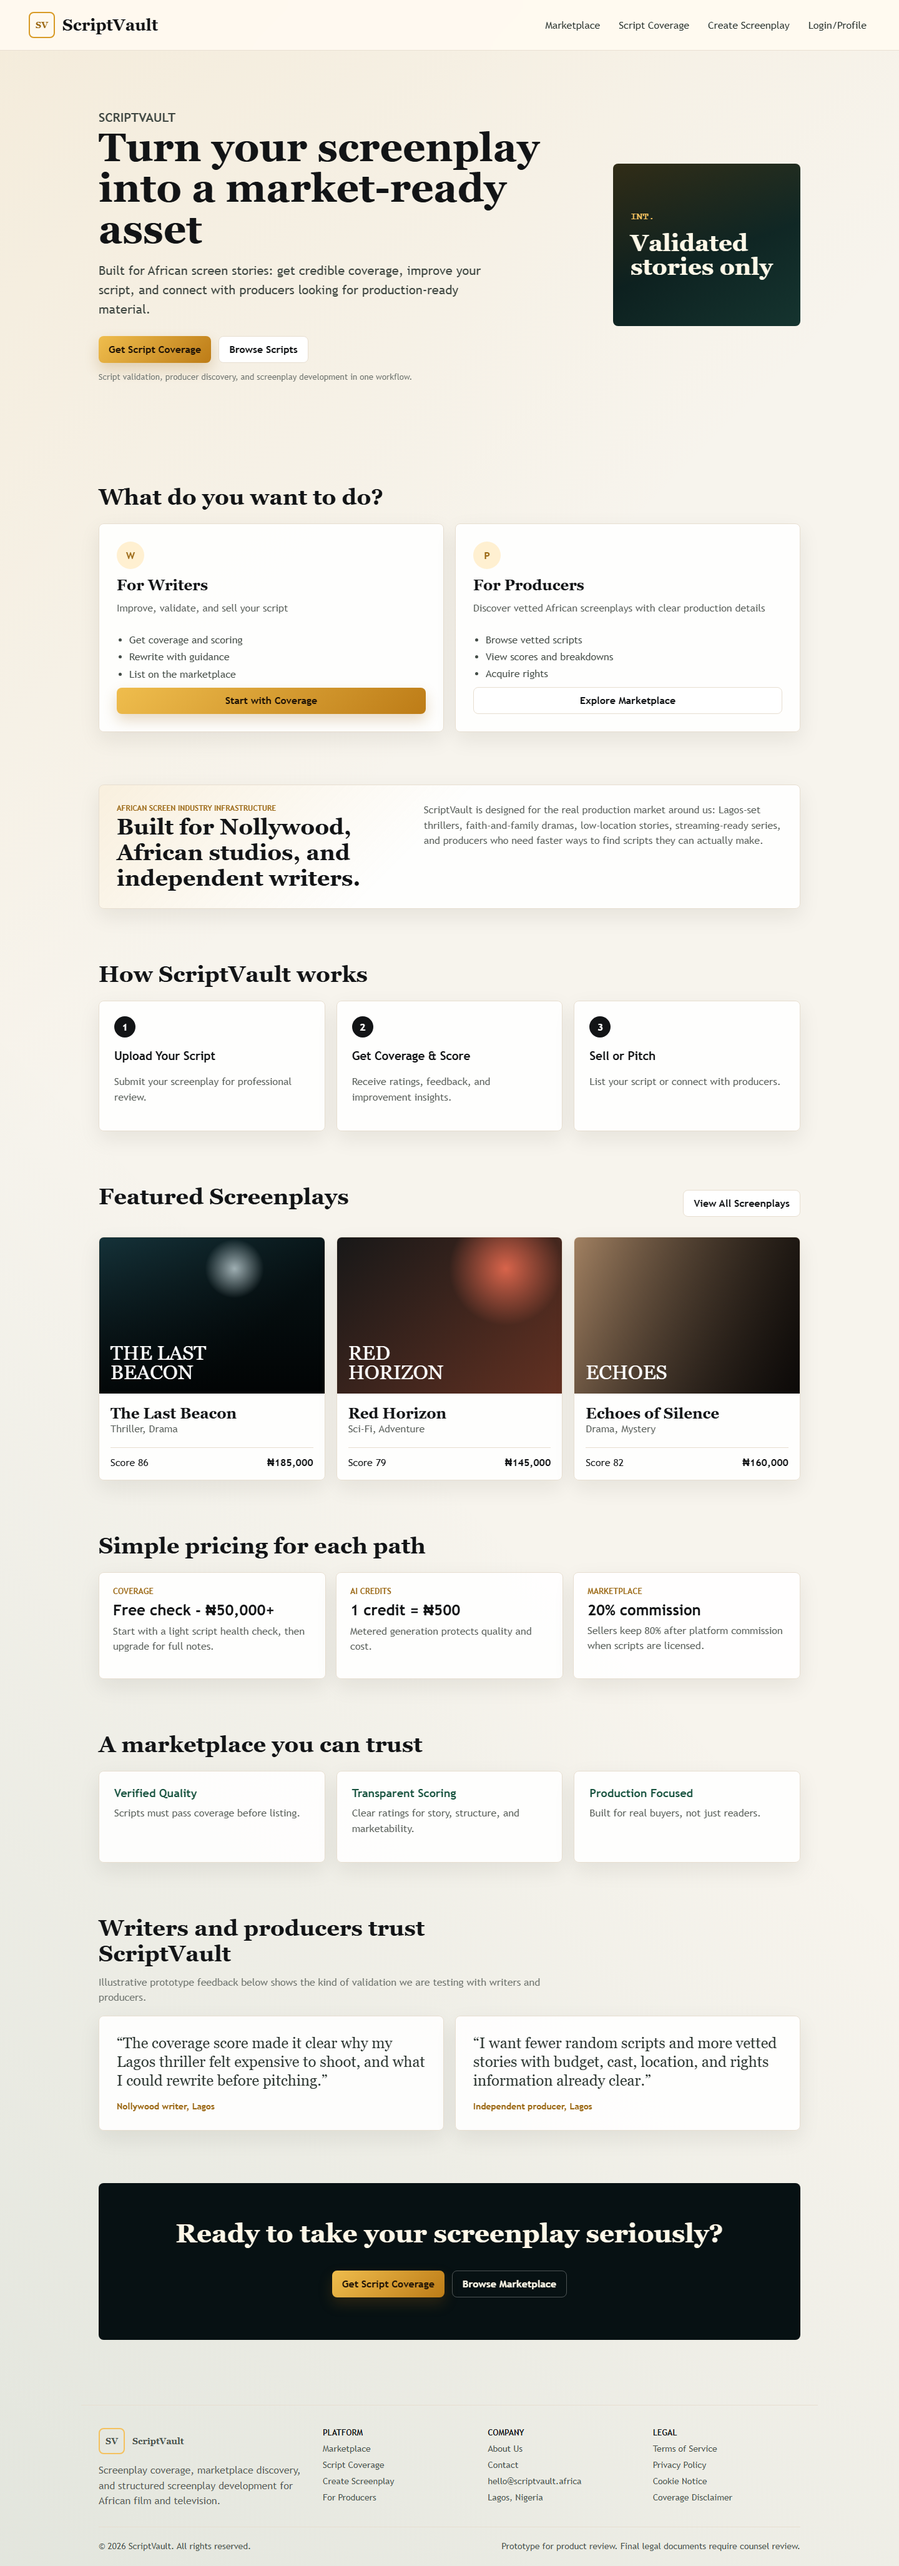
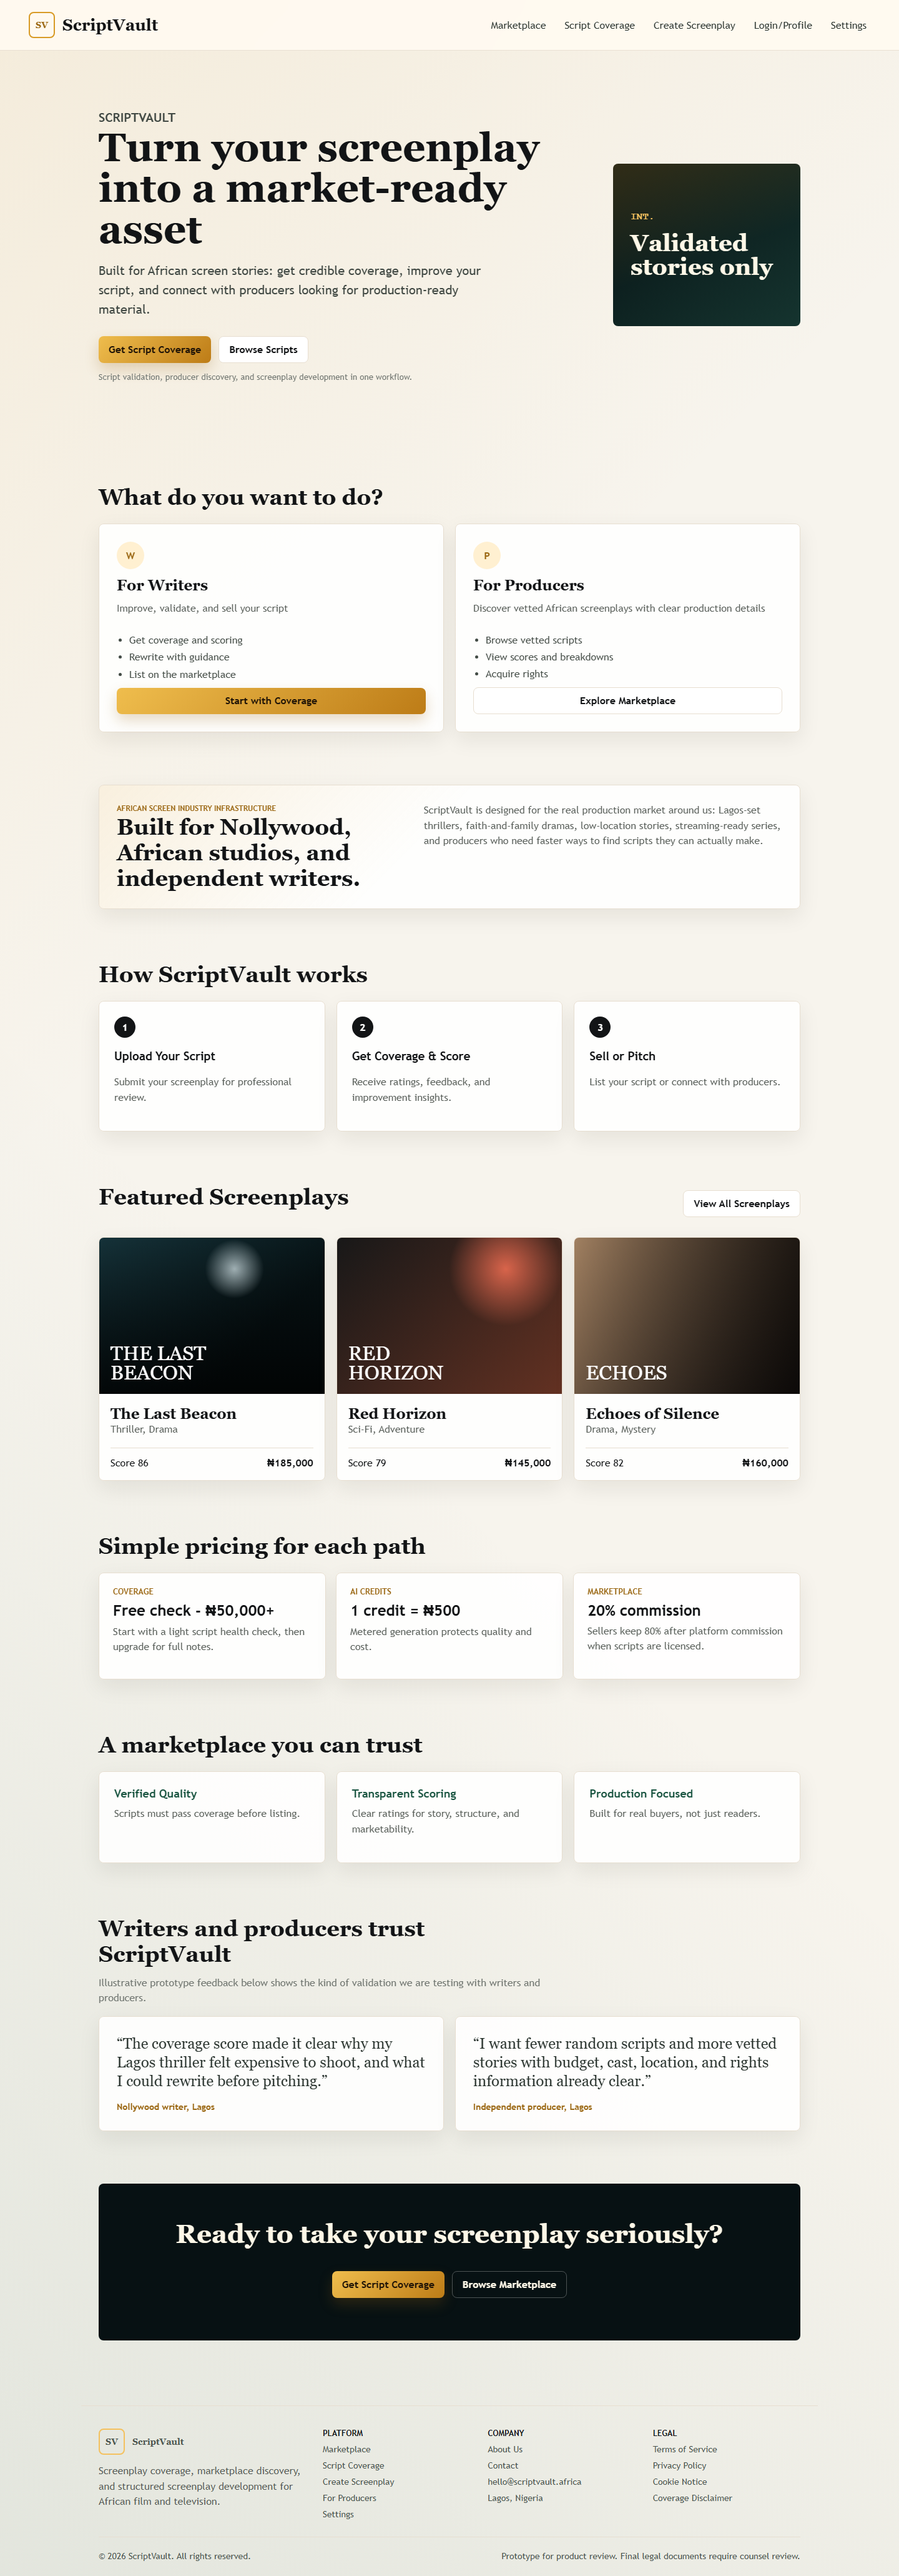
Add prototype API settings

diff --git a/index.html b/index.html
@@ -18,6 +18,7 @@
           <button class="nav-item" data-view="coverage" type="button">Script Coverage</button>
           <button class="nav-item" data-view="generator" type="button">Create Screenplay</button>
           <button class="nav-item" data-view="library" type="button">Login/Profile</button>
+          <button class="nav-item" data-view="settings" type="button">Settings</button>
         </nav>
       </header>
       <main class="main-content">
@@ -1125,6 +1126,42 @@
             </div>
           </section>
         </section>
+
+        <section class="view" id="settings" aria-labelledby="settings-title">
+          <div class="section-heading">
+            <div>
+              <p class="eyebrow">Prototype Settings</p>
+              <h1 id="settings-title">Connect this prototype to a deployed API.</h1>
+              <p>
+                Save API settings in this browser so waitlist and admin review flows can point to staging or
+                production without editing the website code.
+              </p>
+            </div>
+          </div>
+          <form class="panel form-panel settings-panel" id="apiSettingsForm">
+            <label>
+              API Base URL
+              <input id="settingsApiUrl" placeholder="https://api.scriptvault.africa" />
+            </label>
+            <label>
+              Admin Export Key
+              <input
+                id="settingsAdminKey"
+                type="password"
+                placeholder="Only needed for admin review/export"
+              />
+            </label>
+            <div class="clean-actions">
+              <button class="gold-button" type="submit">Save Settings</button>
+              <button class="outline-button" id="clearApiSettingsButton" type="button">Clear</button>
+            </div>
+            <p class="success-message" id="settingsStatus" role="status"></p>
+            <p class="fine-print">
+              These values stay in your browser local storage. Do not enter production secrets on a shared
+              device.
+            </p>
+          </form>
+        </section>
       </main>
       <footer class="site-footer" aria-label="Site footer">
         <div>
@@ -1148,6 +1185,7 @@
           <button data-view="coverage" type="button">Script Coverage</button>
           <button data-view="generator" type="button">Create Screenplay</button>
           <button data-view="producers" type="button">For Producers</button>
+          <button data-view="settings" type="button">Settings</button>
         </nav>
         <nav aria-label="Company navigation">
           <strong>Company</strong>

diff --git a/src/settings.js b/src/settings.js
@@ -1,0 +1,43 @@
+import { messages } from "./data/messages.js";
+
+function getElement(selector) {
+  return document.querySelector(selector);
+}
+
+export function getStoredApiSettings() {
+  return {
+    apiUrl: window.SCRIPTVAULT_API_URL || window.localStorage.getItem("scriptvault_api_url") || "",
+    adminKey: window.localStorage.getItem("scriptvault_admin_key") || "",
+  };
+}
+
+export function initApiSettings() {
+  const form = getElement("#apiSettingsForm");
+  const apiUrlInput = getElement("#settingsApiUrl");
+  const adminKeyInput = getElement("#settingsAdminKey");
+  const status = getElement("#settingsStatus");
+  const clearButton = getElement("#clearApiSettingsButton");
+
+  if (!form || !apiUrlInput || !adminKeyInput || !status || !clearButton) {
+    return;
+  }
+
+  const saved = getStoredApiSettings();
+  apiUrlInput.value = saved.apiUrl;
+  adminKeyInput.value = saved.adminKey;
+
+  form.addEventListener("submit", (event) => {
+    event.preventDefault();
+    window.localStorage.setItem("scriptvault_api_url", apiUrlInput.value.trim());
+    window.localStorage.setItem("scriptvault_admin_key", adminKeyInput.value.trim());
+    status.textContent = messages.settingsSaved;
+  });
+
+  clearButton.addEventListener("click", () => {
+    window.localStorage.removeItem("scriptvault_api_url");
+    window.localStorage.removeItem("scriptvault_admin_key");
+    apiUrlInput.value = "";
+    adminKeyInput.value = "";
+    status.textContent = messages.settingsCleared;
+  });
+}

diff --git a/src/admin.js b/src/admin.js
@@ -1,4 +1,5 @@
 import { messages } from "./data/messages.js";
+import { getStoredApiSettings } from "./settings.js";
 import { logger } from "./utils/logger.js";
 
 const sampleLeads = [
@@ -52,20 +53,19 @@ function getElement(selector) {
 function getApiSettings() {
   const apiUrlInput = getElement("#adminApiUrl");
   const adminKeyInput = getElement("#adminKey");
-  const savedApiUrl = window.SCRIPTVAULT_API_URL || window.localStorage.getItem("scriptvault_api_url") || "";
-  const savedAdminKey = window.localStorage.getItem("scriptvault_admin_key") || "";
+  const saved = getStoredApiSettings();
 
   if (apiUrlInput && !apiUrlInput.value) {
-    apiUrlInput.value = savedApiUrl;
+    apiUrlInput.value = saved.apiUrl;
   }
 
   if (adminKeyInput && !adminKeyInput.value) {
-    adminKeyInput.value = savedAdminKey;
+    adminKeyInput.value = saved.adminKey;
   }
 
   return {
-    apiUrl: apiUrlInput?.value.trim() || savedApiUrl,
-    adminKey: adminKeyInput?.value.trim() || savedAdminKey,
+    apiUrl: apiUrlInput?.value.trim() || saved.apiUrl,
+    adminKey: adminKeyInput?.value.trim() || saved.adminKey,
   };
 }
 

diff --git a/src/main.js b/src/main.js
@@ -3,6 +3,7 @@ import { initAdminWaitlist } from "./admin.js";
 import { initForms } from "./forms.js";
 import { initNavigation } from "./navigation.js";
 import { applyReviewUpdates } from "./review-updates.js";
+import { initApiSettings } from "./settings.js";
 import { logger } from "./utils/logger.js";
 
 registerGlobalErrorHandlers();
@@ -12,6 +13,7 @@ try {
   initNavigation();
   initForms();
   initAdminWaitlist();
+  initApiSettings();
   logger.info("app_initialized");
 } catch (error) {
   logger.error("app_initialization_failed", { message: error.message });

diff --git a/src/data/messages.js b/src/data/messages.js
@@ -17,5 +17,7 @@ export const messages = {
     "Early access request received. We will send curated screenplay opportunities as the marketplace opens.",
   producerError:
     "We could not submit to the waitlist backend right now. Please try again or contact hello@scriptvault.africa.",
+  settingsCleared: "API settings cleared. Prototype will use demo mode.",
+  settingsSaved: "API settings saved for this browser.",
   unexpectedError: "Something went wrong. Please refresh and try again.",
 };

diff --git a/src/forms.js b/src/forms.js
@@ -1,4 +1,5 @@
 import { messages } from "./data/messages.js";
+import { getStoredApiSettings } from "./settings.js";
 import { getRequiredElement } from "./utils/dom.js";
 import { logger } from "./utils/logger.js";
 
@@ -9,7 +10,7 @@ function setStatus(element, message) {
 }
 
 function getApiBaseUrl() {
-  return window.SCRIPTVAULT_API_URL || window.localStorage.getItem("scriptvault_api_url") || "";
+  return getStoredApiSettings().apiUrl;
 }
 
 function getProducerPayload(form) {
